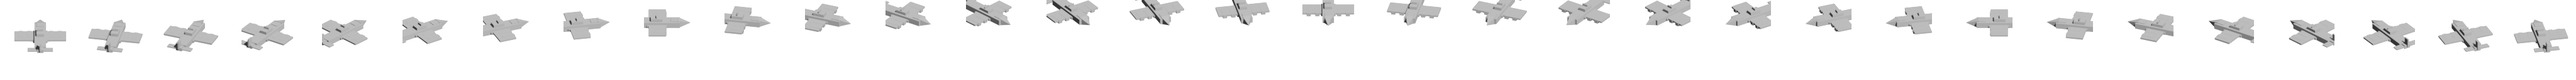
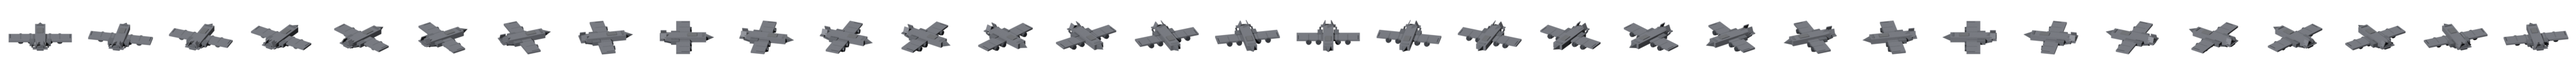
THEATER: Archangel + Tempest apex bodies — P4 spectacle set complete
The final two of the four apex "spectacle" units, both reworked from plain grey
blocks into detailed 32-facing turntables:

  * archangelbody — heavy gunship flying-fortress: broad fuselage + nose cone,
                    wide wing with four engine nacelles, side gun blisters with
                    cannons, twin canted tails, wingtip missile pods, cyan
                    cockpit + red chin sensor. Dark gunmetal. ortho 14 (~88px).
  * tempestbody   — heavy 8-wheel rocket-artillery (MLRS): armored cab, an
                    elevated launcher pod tilted up-and-back with a 4x2 grid of
                    rocket tubes (amber muzzle glow), hydraulic arms. Sand/tan,
                    distinct from the green Citadel. ortho 14 (~81px).

render_theater_spectacle.py BODIES now holds all four (citadel/leviathan/
archangel/tempest) + a _pyr nose helper. Drop-ins (broadside matched per body);
FrameSize/FrameAmount re-embedded via --png-sheet-import.

Verified: check-yaml 0 errors, clean boot (process survives 30s+, no exception
log), all 8 cardinal facings eyeballed (orientation tracks heading). All four
P4 apex units now read as the impressive payoff units they are meant to be.

Changed region(s): [[0.0, 0.0, 1.0, 0.6875]]

diff --git a/design/art/render_theater_spectacle.py b/design/art/render_theater_spectacle.py
@@ -62,6 +62,14 @@ def _cyl(loc, r, h, mat, v=16, rot=(0, 0, 0)):
     o.data.materials.clear(); o.data.materials.append(mat); _made.append(o); return o
 
 
+def _pyr(loc, r, depth, mat):
+    """4-sided pyramid with its tip pointing +Y (aircraft nose cone)."""
+    bpy.ops.mesh.primitive_cone_add(vertices=4, radius1=r, radius2=0, depth=depth, location=loc)
+    o = bpy.context.active_object; o.name = 'GEN_p'
+    o.rotation_euler = (math.radians(-90), math.radians(45), 0)
+    o.data.materials.clear(); o.data.materials.append(mat); _made.append(o); return o
+
+
 def _hull_poly(verts2d, ztop, depth, mat):
     """Extrude a 2D outline (XY) down by `depth` — used for the ship hull (pointed bow at +Y)."""
     me = bpy.data.meshes.new('GEN_hullm'); ob = bpy.data.objects.new('GEN_hull', me)
@@ -140,7 +148,68 @@ def build_leviathan():
     return 18.5
 
 
-BODIES = {'citadel': build_citadel, 'leviathan': build_leviathan}   # archangel/tempest added as reworked
+def build_archangel():
+    """Apex heavy gunship flying-fortress: broad raised fuselage + nose cone (front=+Y), wide wing with
+    four engine nacelles, side gun blisters with cannons, twin canted tail fins, wingtip missile pods,
+    cyan cockpit + red chin sensor. Dark gunmetal. ortho 14 -> ~88px broadside."""
+    body = node_mat('GEN_body', (0.22, 0.23, 0.26), 0.55, 0.1)
+    body_d = node_mat('GEN_body_d', (0.14, 0.15, 0.17), 0.6)
+    metal = node_mat('GEN_metal', (0.30, 0.31, 0.33), 0.4, 0.4)
+    gun = node_mat('GEN_gun', (0.11, 0.12, 0.14), 0.4, 0.5)
+    red = node_mat('GEN_red', (0.7, 0.12, 0.10), 0.3, 0.0, emit=(1.0, 0.12, 0.05), estr=5.0)
+    cyan = node_mat('GEN_cyan', (0.1, 0.5, 0.7), 0.3, 0.0, emit=(0.2, 0.85, 1.0), estr=4.0)
+    _box((0, 0.2, 0.55), (1.8, 7.2, 1.0), body)                            # fuselage
+    _pyr((0, 4.2, 0.55), 0.9, 2.0, body_d)                                 # nose -> +Y
+    _box((0, 1.4, 0.95), (1.0, 1.6, 0.5), metal)                           # cockpit hump
+    _box((0, 1.7, 1.0), (0.6, 0.5, 0.28), cyan)                            # cockpit glass
+    _box((0, 3.0, 0.4), (0.3, 0.5, 0.3), red)                              # chin sensor/gun
+    _box((0, -0.2, 0.5), (11.0, 2.4, 0.32), body)                          # wing
+    for x in (-3.4, -1.7, 1.7, 3.4):
+        _cyl((x, 0.1, 0.18), 0.5, 1.9, body_d, rot=(90, 0, 0))             # engine nacelles
+        _cyl((x, 1.15, 0.18), 0.42, 0.3, gun, rot=(90, 0, 0))
+    for x in (-1.4, 1.4):
+        _box((x, -1.6, 0.45), (0.9, 1.4, 0.7), body_d)                     # gun blister
+        _cyl((x, -2.6, 0.35), 0.14, 1.8, gun, rot=(75, 0, 0))             # cannon
+    _box((0, -3.2, 0.55), (1.2, 1.8, 0.7), body_d)
+    _box((-0.7, -3.6, 1.2), (0.12, 1.0, 1.0), body, rot=(0, 24, 0))        # twin tails
+    _box((0.7, -3.6, 1.2), (0.12, 1.0, 1.0), body, rot=(0, -24, 0))
+    _box((0, -3.9, 0.6), (2.6, 0.7, 0.16), body)                          # tailplane
+    for x in (-5.2, 5.2):
+        _cyl((x, 0.2, 0.5), 0.18, 1.4, gun, rot=(90, 0, 0))               # wingtip pods
+    return 14.0
+
+
+def build_tempest():
+    """Apex rocket-artillery (MLRS): 8-wheel sand chassis, armored cab (front=+Y), an elevated launcher
+    pod tilted up-and-back with a 4x2 grid of rocket tubes (amber muzzle glow), hydraulic arms, rear
+    stabiliser. Sand/tan (distinct from the green Citadel). ortho 14 -> ~81px broadside."""
+    tan = node_mat('GEN_tan', (0.55, 0.50, 0.36), 0.7)
+    tan_d = node_mat('GEN_tan_d', (0.39, 0.35, 0.25), 0.7)
+    wheel = node_mat('GEN_wheel', (0.09, 0.09, 0.10), 0.7)
+    metal = node_mat('GEN_metal', (0.28, 0.28, 0.29), 0.5, 0.4)
+    tube = node_mat('GEN_tube', (0.13, 0.13, 0.14), 0.4, 0.5)
+    amber = node_mat('GEN_amber', (0.7, 0.35, 0.04), 0.3, 0.0, emit=(1.0, 0.5, 0.05), estr=5.0)
+    _box((0, -0.2, 1.15), (3.0, 7.4, 1.3), tan)                            # chassis
+    _box((0, -0.2, 1.95), (3.2, 6.8, 0.4), tan_d)                          # deck
+    for y in (2.5, 1.1, -1.1, -2.5):
+        for x in (-1.6, 1.6):
+            _cyl((x, y, 0.6), 0.62, 0.5, wheel, rot=(0, 90, 0))            # 8x8 wheels
+    _box((0, 3.0, 2.0), (2.6, 1.6, 1.5), tan)                              # cab
+    _box((0, 3.85, 2.1), (2.2, 0.3, 1.0), tube)                            # windscreen
+    _box((0, -1.2, 2.3), (2.2, 1.4, 0.6), metal)                           # turntable
+    _box((0, -1.9, 3.5), (2.8, 3.0, 1.7), tan_d, rot=(-32, 0, 0))          # launcher pod
+    for tx in (-0.85, -0.28, 0.28, 0.85):
+        for tz in (0, 1):
+            _cyl((tx, -3.4, 4.3 + tz * 0.95), 0.22, 2.0, tube, rot=(58, 0, 0))         # rocket tubes
+            _cyl((tx, -3.45, 4.32 + tz * 0.95), 0.13, 0.4, amber, rot=(58, 0, 0))      # muzzle glow
+    for x in (-1.0, 1.0):
+        _cyl((x, -0.4, 2.7), 0.12, 1.8, metal, rot=(40, 0, 0))            # hydraulic arms
+    _box((0, -3.7, 1.0), (2.4, 0.5, 0.8), tan_d)                          # rear stabiliser
+    return 14.0
+
+
+BODIES = {'citadel': build_citadel, 'leviathan': build_leviathan,
+          'archangel': build_archangel, 'tempest': build_tempest}   # full P4 apex set
 
 
 def turntable_cam(ortho):
